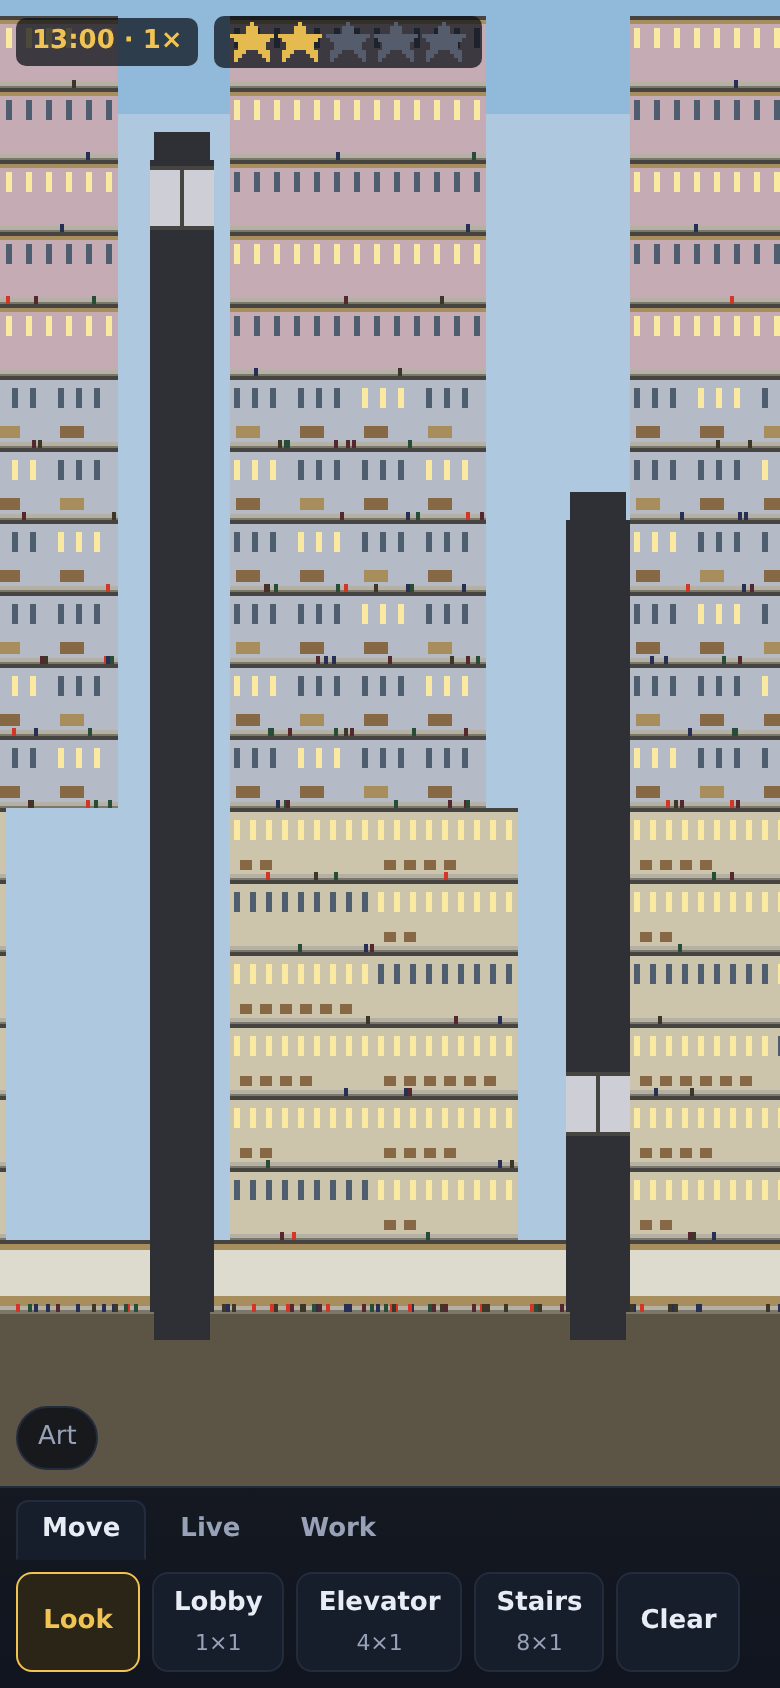
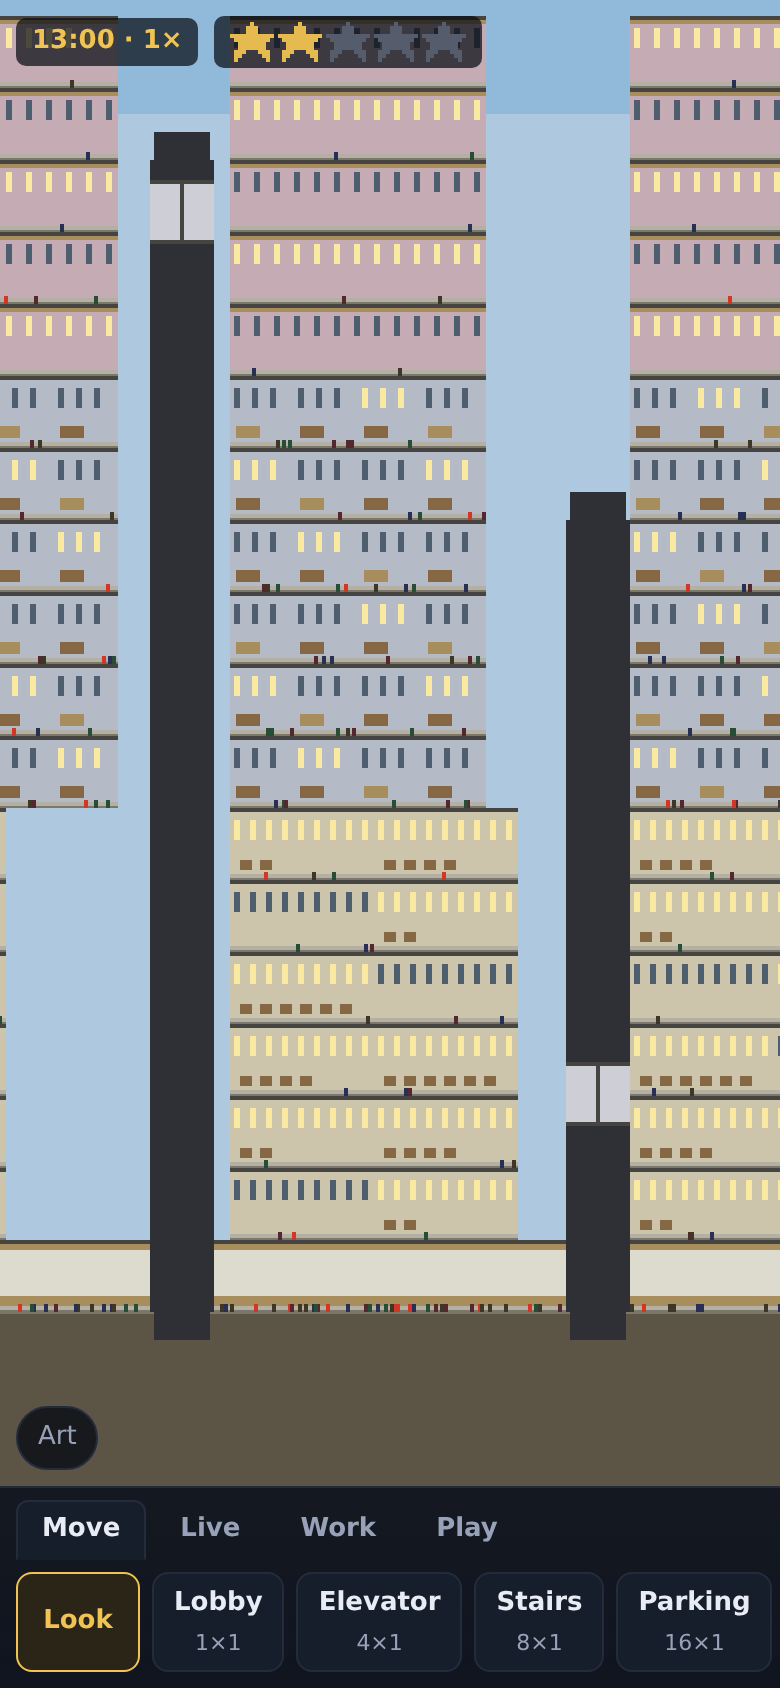
Five facilities the measurement could prove, and their placeholder art
Restaurant at 24 segments, shop at 12, fast food at 16 — each recovered from
the pixels by --period and each landing on the original's own documented size
without being told what to look for. That independent agreement is why these
three are in and the chapel, theatre, cinema and metro are not: their widths
are not defensible yet, and a facility drawn at the wrong width is how the
ground floor came to be a parade of shopfronts.

Medical and parking repeat at nothing, which is itself the answer — one frame
of the whole sheet. Both are 128x24, the same shape as a condo, which is
sixteen segments and was verified separately, so the width is corroborated
rather than merely unrefuted. And the shaft gains its eleven states: it was
catalogued with none and tiled whole, drawing correctly only because tile wraps
its source and a lift is exactly one frame wide.

Three things fell out of writing the test that every facility must resolve to a
sprite in both atlases — the check that stops a build-bar button existing with
nothing behind it on the deployed page, which draws only the placeholder art:

Stairs had been half-width in the fallback atlas since the facility widened
from four segments to eight. Nothing compared the two numbers until now.

The build bar overflowed the whole app. A grid column sizes to its content
unless told otherwise, so the wider row of buttons stretched .app past the
viewport and the bar's own overflow-x never engaged — there was nothing to
[…]

diff --git a/vertical-empire/src/assets/fallback.ts b/vertical-empire/src/assets/fallback.ts
@@ -57,6 +57,15 @@ export const INK = {
   townWindow: 28,
   starLit: 29,
   starDim: 30,
+  shopFront: 31,
+  shopSign: 32,
+  diningFloor: 33,
+  cloth: 34,
+  counter: 35,
+  clinicFloor: 36,
+  clinicTrim: 37,
+  deck: 38,
+  bay: 39,
   indicatorA: 197,
   indicatorB: 198,
 } as const;
@@ -92,6 +101,15 @@ const DAY: Record<number, [number, number, number]> = {
   [INK.townRoof]: [72, 78, 92],
   [INK.starLit]: [240, 195, 82],
   [INK.starDim]: [88, 96, 112],
+  [INK.shopFront]: [232, 214, 186],
+  [INK.shopSign]: [196, 84, 72],
+  [INK.diningFloor]: [186, 158, 142],
+  [INK.cloth]: [236, 230, 218],
+  [INK.counter]: [156, 116, 84],
+  [INK.clinicFloor]: [212, 226, 224],
+  [INK.clinicTrim]: [96, 156, 148],
+  [INK.deck]: [88, 88, 92],
+  [INK.bay]: [64, 64, 68],
   [INK.townWindow]: [196, 206, 176],
   [INK.indicatorA]: [248, 200, 64],
   [INK.indicatorB]: [80, 60, 24],
@@ -257,9 +275,16 @@ function car(): IndexedImage {
 }
 
 function stairs(): IndexedImage {
-  const image = blank(SEGMENT_WIDTH * 4, FLOOR_HEIGHT, INK.wall);
-  for (let step = 0; step < 8; step += 1) {
-    fill(image, step * 4, FLOOR_HEIGHT - 5 - step * 4, 4, 3, INK.slab);
+  // Eight segments, which is what the world declares and what the original's
+  // own sheet divides into. This was four, drawing half a flight in the gap
+  // left by a full-width one, for as long as nothing compared the two numbers.
+  const width = SEGMENT_WIDTH * 8;
+  const image = blank(width, FLOOR_HEIGHT, INK.wall);
+  const steps = 10;
+  const rise = (FLOOR_HEIGHT - 6) / steps;
+  const run = width / steps;
+  for (let step = 0; step < steps; step += 1) {
+    fill(image, Math.round(step * run), Math.round(FLOOR_HEIGHT - 5 - step * rise), Math.ceil(run), 3, INK.slab);
   }
   return image;
 }
@@ -288,6 +313,95 @@ function town(step: number): IndexedImage {
 function person(tint: number): IndexedImage {
   const image = blank(2, 4, INK.transparent);
   fill(image, 0, 0, 2, 4, tint);
+  return image;
+}
+
+/**
+ * A restaurant: twenty-four segments of tables under a long window.
+ *
+ * The width is not invented. `--period` cut the original's own sheet at 192px
+ * and that is twenty-four segments, which is what SimTower documents — so the
+ * placeholder is drawn to the real size rather than to a convenient one.
+ */
+function restaurant(state: number): IndexedImage {
+  const image = blank(SEGMENT_WIDTH * 24, FLOOR_HEIGHT, INK.diningFloor);
+  addSlab(image);
+  addWindows(image, state > 0, 16);
+  for (let table = 0; table < 7; table += 1) {
+    const x = 8 + table * 26;
+    fill(image, x, FLOOR_HEIGHT - 12, 14, 2, INK.cloth);
+    fill(image, x + 6, FLOOR_HEIGHT - 10, 2, 5, INK.counter);
+    // Diners only once the place is open, which is the whole tell for state.
+    if (state > 0) {
+      fill(image, x - 2, FLOOR_HEIGHT - 15, 3, 8, INK.personA);
+      fill(image, x + 13, FLOOR_HEIGHT - 15, 3, 8, INK.personC);
+    }
+  }
+  return image;
+}
+
+/** A shop: twelve segments of lit frontage with a sign over it. */
+function shop(state: number): IndexedImage {
+  const image = blank(SEGMENT_WIDTH * 12, FLOOR_HEIGHT, INK.shopFront);
+  addSlab(image);
+  fill(image, 2, 5, SEGMENT_WIDTH * 12 - 4, 5, INK.shopSign);
+  // Shuttered at state 0; goods in the window once it is trading.
+  if (state === 0) {
+    for (let bar = 0; bar < 12; bar += 1) fill(image, 4 + bar * 8, 12, 5, FLOOR_HEIGHT - 18, INK.wall);
+    return image;
+  }
+  // Shelves fill up as the state rises, the way an office grows desks: the
+  // three states have to look like three things or the third frame is dead
+  // weight in the sheet.
+  for (let shelf = 0; shelf < 3; shelf += 1) {
+    fill(image, 6, 14 + shelf * 6, SEGMENT_WIDTH * 12 - 12, 2, INK.counter);
+    for (let item = 0; item < 2 + state * 3; item += 1) {
+      fill(image, 8 + item * 11, 11 + shelf * 6, 4, 3, item % 2 === 0 ? INK.windowLit : INK.shopSign);
+    }
+  }
+  // And a shopper once it is busy.
+  if (state > 1) fill(image, SEGMENT_WIDTH * 12 - 14, FLOOR_HEIGHT - 15, 3, 8, INK.personC);
+  return image;
+}
+
+/** Fast food: sixteen segments, a counter across the front and a menu board. */
+function fastFood(state: number): IndexedImage {
+  const image = blank(SEGMENT_WIDTH * 16, FLOOR_HEIGHT, INK.shopFront);
+  addSlab(image);
+  fill(image, 0, 5, SEGMENT_WIDTH * 16, 6, INK.shopSign);
+  for (let panel = 0; panel < 6; panel += 1) fill(image, 6 + panel * 20, 6, 12, 4, INK.windowLit);
+  fill(image, 4, FLOOR_HEIGHT - 13, SEGMENT_WIDTH * 16 - 8, 4, INK.counter);
+  if (state > 0) {
+    for (let queue = 0; queue < 5; queue += 1) {
+      fill(image, 10 + queue * 24, FLOOR_HEIGHT - 20, 3, 8, queue % 2 === 0 ? INK.personB : INK.personD);
+    }
+  }
+  return image;
+}
+
+/** A clinic: sixteen segments, pale and evenly lit. */
+function clinic(): IndexedImage {
+  const image = blank(SEGMENT_WIDTH * 16, FLOOR_HEIGHT, INK.clinicFloor);
+  addSlab(image);
+  addWindows(image, true, 12);
+  fill(image, 0, FLOOR_HEIGHT - 12, SEGMENT_WIDTH * 16, 1, INK.clinicTrim);
+  for (let bed = 0; bed < 4; bed += 1) {
+    fill(image, 10 + bed * 30, FLOOR_HEIGHT - 10, 18, 4, INK.cloth);
+    fill(image, 10 + bed * 30, FLOOR_HEIGHT - 10, 4, 4, INK.clinicTrim);
+  }
+  return image;
+}
+
+/** Parking: sixteen segments of dark deck, marked out into bays. */
+function parking(): IndexedImage {
+  const image = blank(SEGMENT_WIDTH * 16, FLOOR_HEIGHT, INK.deck);
+  addSlab(image);
+  for (let bay = 0; bay < 6; bay += 1) {
+    const x = 6 + bay * 20;
+    fill(image, x, 8, 1, FLOOR_HEIGHT - 14, INK.bay);
+    // A car in every other bay, so the deck reads as used rather than empty.
+    if (bay % 2 === 0) fill(image, x + 4, FLOOR_HEIGHT - 14, 12, 5, bay === 2 ? INK.shopSign : INK.personA);
+  }
   return image;
 }
 
@@ -349,6 +463,11 @@ export function buildFallbackAtlas(): Atlas {
   sprites.set('elevator', sprite('elevator', [shaft()]));
   sprites.set('car', sprite('car', [car()], INK.transparent));
   sprites.set('stairs', sprite('stairs', [stairs()]));
+  sprites.set('restaurant', sprite('restaurant', [restaurant(0), restaurant(1)]));
+  sprites.set('shop', sprite('shop', [shop(0), shop(1), shop(2)]));
+  sprites.set('fast-food', sprite('fast-food', [fastFood(0), fastFood(1)]));
+  sprites.set('medical', sprite('medical', [clinic()]));
+  sprites.set('parking', sprite('parking', [parking()]));
   sprites.set(
     'people',
     sprite(

diff --git a/vertical-empire/src/assets/slice.ts b/vertical-empire/src/assets/slice.ts
@@ -162,7 +162,13 @@ export const CATALOGUE: readonly SpriteSpec[] = [
   // The digit sheets are not catalogued yet: how they are cut decides whether a
   // floor number is composed from glyphs or indexed whole, and that has to be
   // measured rather than assumed. Same for the machinery at 0x88e8-0x88ed.
-  { key: 'shaft', type: TYPE_BITMAP, ids: [0x87e8], mode: 'dib' },
+  //
+  // 352x36 is eleven frames of four segments, which `--period` puts at 8.2%
+  // against 51% for the next reading. It was catalogued with no states and
+  // tiled whole, and drew the right thing only because `tile` wraps its source
+  // and a lift is exactly one frame wide — the right answer for the wrong
+  // reason, which stops being right the moment anything else uses it.
+  { key: 'shaft', type: TYPE_BITMAP, ids: [0x87e8], mode: 'dib', states: 11 },
 
   // Both of these were in the catalogue at the right IDs but as cell strips.
   // They are ordinary bitmaps, which is why they came back "not found".
@@ -171,6 +177,39 @@ export const CATALOGUE: readonly SpriteSpec[] = [
   // riders on some. Eight segments each, as the arithmetic suggested.
   { key: 'stairs', type: TYPE_BITMAP, ids: [0x8968, 0x8969], mode: 'dib', states: 7, transparent: 'corner' },
   { key: 'escalator', type: TYPE_BITMAP, ids: [0x8aa8, 0x8ae8], mode: 'dib', states: 8, transparent: 'corner' },
+
+
+  // Everything below came from measuring the sheets rather than reading their
+  // widths, because a width does not say how it is cut: 288x24 is four states
+  // of nine segments if it is an office and three of twelve if it is a shop.
+  //
+  // The first three are the strongest evidence in the whole catalogue. Their
+  // frame widths were recovered from the pixels — 24, 12 and 16 segments — and
+  // those are the original's own documented sizes for a restaurant, a shop and
+  // a fast food counter. Nothing told the measurement what to look for and it
+  // landed on all three.
+
+  // 384x24, two states of 24 segments: 25.0%, against 86.9% for the next.
+  { key: 'restaurant', type: TYPE_BITMAP, ids: range(0x8568, 0x8571), mode: 'dib', states: 2 },
+
+  // 288x24, three states of 12 segments: 20.6%, against 91.0%.
+  { key: 'shop', type: TYPE_BITMAP, ids: range(0x8668, 0x8672), mode: 'dib', states: 3 },
+
+  // 256x24, two states of 16 segments: 22.9%, against 87.3%.
+  { key: 'fast-food', type: TYPE_BITMAP, ids: range(0x86e8, 0x86f1), mode: 'dib', states: 2 },
+
+  // These two repeat at nothing, which is itself the answer: one frame of the
+  // whole sheet. Both are 128x24 — the same shape as a condo, which is sixteen
+  // segments and was verified separately, so the width is corroborated rather
+  // than merely unrefuted.
+  { key: 'medical', type: TYPE_BITMAP, ids: [0x8768], mode: 'dib' },
+  { key: 'parking', type: TYPE_BITMAP, ids: range(0x8ee8, 0x8eea), mode: 'dib' },
+
+  // Deliberately absent: the chapel (0x8ca8 measures 7 segments, which is not a
+  // room), the theatre (0x88a8, 34% against a 41% runner-up — too close to
+  // call), the cinema (0x8728) and the metro (0x8e28). Their art is in the file
+  // and their widths are not defensible yet, and a facility drawn at the wrong
+  // width is how the ground floor came to be a parade of shopfronts.
 
   // Two pieces of the original's chrome, borrowed for the HUD: the rating star
   // lit and unlit. Icons rather than sheets, so they are taken whole. Both sit

diff --git a/vertical-empire/scripts/extract.ts b/vertical-empire/scripts/extract.ts
@@ -463,6 +463,7 @@ async function contact(
   palette: Uint8Array,
   wrapAt: number,
   scale: number,
+  window?: { from: number; to: number },
 ): Promise<void> {
   await mkdir(OUT, { recursive: true });
 
@@ -470,10 +471,22 @@ async function contact(
   for (const token of tokens) {
     const found = resolve(resources, token);
     if (!found) continue;
-    panels.push(
-      panelFor(`${hex(found.type)}/${hex(found.id)}  ${found.image.width}x${found.image.height}`, found.image, wrapAt),
-    );
-    console.log(`  ${hex(found.id)}  ${found.image.width}x${found.image.height}`);
+
+    // A 6624px strip is a mile of ribbon: wrapped and scaled it comes out
+    // taller than anything will show at full size, and a contact sheet you
+    // cannot read is not a contact sheet. A window into it is legible.
+    let { image } = found;
+    const label = `${hex(found.type)}/${hex(found.id)}  ${image.width}x${image.height}`;
+    if (window) {
+      const from = Math.max(0, Math.min(image.width - 1, window.from));
+      const to = Math.max(from + 1, Math.min(image.width, window.to));
+      image = crop(image, from, 0, to - from, image.height);
+      console.log(`  ${hex(found.id)}  ${found.image.width}x${found.image.height}, showing ${from}..${to}`);
+    } else {
+      console.log(`  ${hex(found.id)}  ${image.width}x${image.height}`);
+    }
+
+    panels.push(panelFor(window ? `${label}  ${window.from}-${window.to}` : label, image, wrapAt));
   }
 
   await paste(panels, palette, scale, 'contact-sheet');
@@ -537,7 +550,7 @@ async function main(): Promise<void> {
     console.error('Usage: npm run extract -- [--all] [--frames 0x82bc,0x8429] /path/to/SIMTOWER.EXE');
     console.error('\n  --all      also dump every bitmap and cell strip, named by resource ID');
     console.error('  --frames   report how the named sheets are cut into frames');
-    console.error('  --window   with --frames, look at just these columns, e.g. 0,160');
+    console.error('  --window   with --frames or --contact, look at just these columns, e.g. 0,320');
     console.error('  --contact  write one wrapped, labelled, scaled-up PNG of the named sheets');
     console.error('  --sweep    thumbnail every bitmap and cell strip onto one labelled page');
     console.error('  --period   measure how the named sheets divide into equal frames');
@@ -558,7 +571,7 @@ async function main(): Promise<void> {
   }
 
   if (contactIds.length > 0) {
-    await contact(resources, contactIds, palette, 160, 3);
+    await contact(resources, contactIds, palette, 160, 3, window);
     return;
   }
 

diff --git a/vertical-empire/src/world/facilities.ts b/vertical-empire/src/world/facilities.ts
@@ -8,7 +8,18 @@
  * fallback art is used they *are* the sizes it is drawn at.
  */
 
-export type FacilityId = 'lobby' | 'office' | 'condo' | 'hotel' | 'elevator' | 'stairs';
+export type FacilityId =
+  | 'lobby'
+  | 'office'
+  | 'condo'
+  | 'hotel'
+  | 'elevator'
+  | 'stairs'
+  | 'restaurant'
+  | 'shop'
+  | 'fast-food'
+  | 'medical'
+  | 'parking';
 
 /**
  * Which drawer of the build bar a facility lives in.
@@ -53,9 +64,17 @@ export const FACILITIES: readonly Facility[] = [
   { id: 'elevator', label: 'Elevator', category: 'move', sprite: 'elevator', width: 4, cost: 100_000, placement: 'anywhere', transport: true },
   // Eight segments, from the 448px sheet dividing into seven states.
   { id: 'stairs', label: 'Stairs', category: 'move', sprite: 'stairs', width: 8, cost: 5_000, placement: 'anywhere', transport: true },
+  { id: 'parking', label: 'Parking', category: 'move', sprite: 'parking', width: 16, cost: 30_000, placement: 'anywhere', transport: false },
   { id: 'condo', label: 'Condo', category: 'live', sprite: 'condo', width: 16, cost: 200_000, placement: 'anywhere', transport: false },
   { id: 'hotel', label: 'Hotel', category: 'live', sprite: 'hotel', width: 4, cost: 20_000, placement: 'anywhere', transport: false },
   { id: 'office', label: 'Office', category: 'work', sprite: 'office', width: 9, cost: 40_000, placement: 'anywhere', transport: false },
+  { id: 'medical', label: 'Clinic', category: 'work', sprite: 'medical', width: 16, cost: 500_000, placement: 'anywhere', transport: false },
+  // Widths measured off the sheets, not chosen: see the notes in
+  // `assets/slice.ts`. Restaurant, shop and fast food each came back at the
+  // original's own documented size without being told what to expect.
+  { id: 'restaurant', label: 'Restaurant', category: 'play', sprite: 'restaurant', width: 24, cost: 200_000, placement: 'anywhere', transport: false },
+  { id: 'shop', label: 'Shop', category: 'play', sprite: 'shop', width: 12, cost: 100_000, placement: 'anywhere', transport: false },
+  { id: 'fast-food', label: 'Fast food', category: 'play', sprite: 'fast-food', width: 16, cost: 100_000, placement: 'anywhere', transport: false },
 ];
 
 const BY_ID = new Map(FACILITIES.map((facility) => [facility.id, facility]));

diff --git a/vertical-empire/tests/render.test.ts b/vertical-empire/tests/render.test.ts
@@ -14,6 +14,7 @@ import {
   levelTop,
 } from '../src/world/grid.js';
 import { DEMO_LEFT, Tower, demoTower } from '../src/world/tower.js';
+import { FACILITIES } from '../src/world/facilities.js';
 import type { IndexedImage } from '../src/assets/dib.js';
 
 function solid(width: number, height: number, ink: number): IndexedImage {
@@ -452,5 +453,28 @@ describe('the town', () => {
     const x = Math.round(44 * SEGMENT_WIDTH - camera.x);
     const y = Math.round(levelTop(GROUND_LEVEL) + 10 - camera.y);
     expect(buffer.pixels[y * buffer.width + x]).not.toBe(INK.townWall);
+  });
+});
+
+describe('the build bar and the art agree', () => {
+  it('has placeholder art for every facility it offers', () => {
+    const atlas = buildFallbackAtlas();
+    // The deployed page draws only this atlas — nobody visiting the site has
+    // supplied a copy of the game. A facility in the build bar with no sprite
+    // behind it is a button that builds a flat band, so the two lists have to
+    // be kept in step and this is what keeps them there.
+    const missing = FACILITIES.filter((item) => !atlas.sprites.has(item.sprite)).map((item) => item.id);
+    expect(missing).toEqual([]);
+  });
+
+  it('draws each facility at the width the world declares', () => {
+    const atlas = buildFallbackAtlas();
+    for (const item of FACILITIES) {
+      const frame = atlas.sprites.get(item.sprite)?.frames[0];
+      if (!frame) continue; // covered by the test above
+      // Placeholder art is drawn to the world's own widths, so a mismatch here
+      // means one of the two moved without the other.
+      expect([item.id, frame.width]).toEqual([item.id, item.width * SEGMENT_WIDTH]);
+    }
   });
 });

diff --git a/vertical-empire/src/styles/base.css b/vertical-empire/src/styles/base.css
@@ -36,6 +36,12 @@ body {
   inset: 0;
   display: grid;
   grid-template-rows: 1fr auto;
+  /* Not the default `auto`. A grid column sizes to its content unless told
+     otherwise, so the build bar's row of buttons stretched the whole app wider
+     than the screen and its own `overflow-x: auto` never engaged — there was
+     nothing to scroll against. This pins the column to the viewport and lets
+     the bar scroll inside it, which is what it was always meant to do. */
+  grid-template-columns: minmax(0, 100%);
 }
 
 .stage {
@@ -76,6 +82,9 @@ body {
 .hud-clock {
   color: var(--accent);
   font-weight: 600;
+  /* A long status message shares this row and would otherwise fold the time
+     onto two lines. */
+  white-space: nowrap;
 }
 
 .hud-status:empty {
@@ -112,6 +121,8 @@ body {
   grid-row: 2;
   grid-column: 1;
   z-index: 2;
+  /* Same reason: a grid item's automatic minimum size is its content. */
+  min-width: 0;
   padding-bottom: env(safe-area-inset-bottom, 0px);
   background: linear-gradient(to top, var(--chrome), rgb(16 21 31 / 0.94));
   border-top: 1px solid var(--chrome-edge);
@@ -121,6 +132,9 @@ body {
    aim at mid-build — the facilities below it are the things you tap. */
 .tabs {
   display: flex;
+  min-width: 0;
+  overflow-x: auto;
+  scrollbar-width: none;
   gap: 4px;
   padding: 6px 8px 0;
 }
@@ -147,6 +161,7 @@ body {
 
 .bar {
   display: flex;
+  min-width: 0;
   gap: 6px;
   padding: 6px 8px 8px;
   overflow-x: auto;
